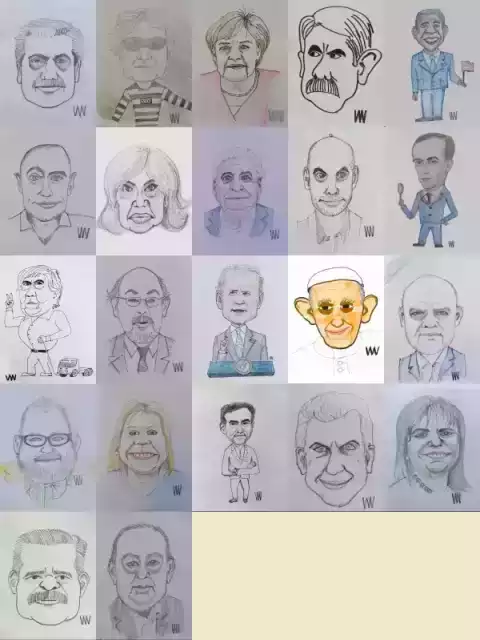
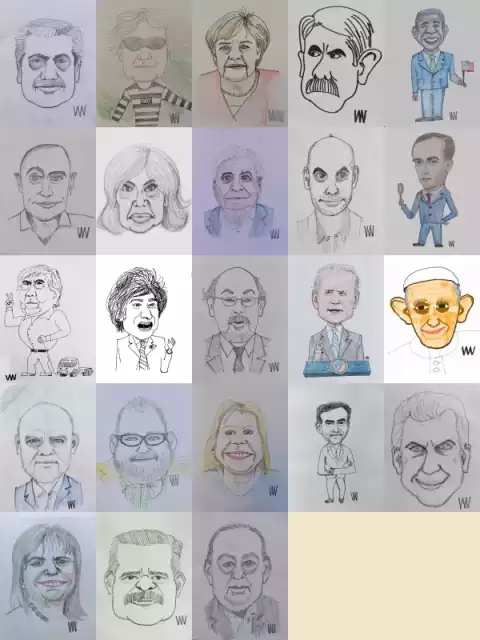
Version 20210205

diff --git a/galeria-conocidos.html b/galeria-conocidos.html
@@ -2,118 +2,75 @@
 <html lang="es">
 
 <head>
-	<!-- Global site tag (gtag.js) - Google Analytics -->
-	<script async src="https://www.googletagmanager.com/gtag/js?id=G-PP1LNRZ7TV"></script>
-	<script>
-		window.dataLayer = window.dataLayer || [];
-		function gtag(){dataLayer.push(arguments);}
-		gtag('js', new Date());
-		gtag('config', 'G-PP1LNRZ7TV');
-	</script>
 
 	<meta charset="UTF-8">
-	<meta	name="viewport"	content="width=device-width,height=device-height,initial-scale=1">
+	<meta name="viewport" content="width=device-width,height=device-height,initial-scale=1">
 	<meta name="description" content="Galería de personajes. Alejandro Yacono, Alejandro Hernandez, Guillermo Dianda">
-	<meta name="keywords" content="Galería de personajes, caricaturas,Rompecabezas">
+	<meta name="keywords" content="Galería de personajes conocidos, caricaturas,Rompecabezas">
 
-	<title>Galería de personajes</title>
+	<title>Galería de personajes conocidos</title>
 
 	<link	rel="stylesheet"	href="./css/estilo202010.css"	media="screen,projection,tv">
 	<link rel="shortcut icon" type="image/x-icon" href="favicon.ico">
 
 	<script src="menuppal.js"></script>
 
-<style>
-* {
-  box-sizing: border-box;
-}
-
-
-
-/* Style the images inside the grid */
-.column img {
-  opacity: 0.8; 
-  cursor: pointer; 
-}
-
-.column img:hover {
-  opacity: 1;
-}
-
-/* Clear floats after the columns */
-.row:after {
-  content: "";
-  display: table;
-  clear: both;
-}
-
-/* The expanding image container */
-.container {
-  position: relative;
-  display: none;
-}
-
-/* Expanding image text */
-#imgtext {
-  position: absolute;
-  bottom: 15px;
-  left: 15px;
-  color: #fff;
-  font-size: 16px;
-}
-
-/* Closable button inside the expanded image */
-.closebtn {
-  position: absolute;
-  top: 10px;
-  right: 15px;
-  color: white;
-  font-size: 35px;
-  cursor: pointer;
-}
-</style>
-
 </head>
 
 <body>
 
 	<div class="header">
-		<h1> Galería de personajes </h1>
+		<h1> Galería de personajes conocidos</h1>
 	</div>
 
 	<div id="menuppal"></div>
 
 	<div class="row clr_fondo">
-		<p>Están ordenados por nombre. Reconoces alguno?<br />
-			Si es así, <a href="consultas.html">avísame</a>.
+		<p>A quienes reconoces?<br />
+			<a href="consultas.html">Contame...</a>.
 		</p>
-		<div class="col-12" style="text-align:center;">
-			<img src="images/personajes/AleH.webp      " alt="01" style="width:024%">
-			<img src="images/personajes/AlejanY.webp   " alt="02" style="width:024%">
-			<img src="images/personajes/AnnieV.webp    " alt="04" style="width:024%">
-			<img src="images/personajes/ArielJ.webp    " alt="05" style="width:024%">
-			<img src="images/personajes/ClausH.webp    " alt="08" style="width:024%">
-			<img src="images/personajes/DiegoT.webp    " alt="09" style="width:024%">
-			<img src="images/personajes/EzequielC.webp " alt="13" style="width:024%">
-			<img src="images/personajes/GermanG.webp   " alt="14" style="width:024%">
-			<img src="images/personajes/Guille-II.webp " alt="15" style="width:024%">
-			<img src="images/personajes/GuilleD.webp   " alt="16" style="width:024%">
-			<img src="images/personajes/JoseLuisM.webp " alt="21" style="width:024%">
-			<img src="images/personajes/joseO.webp     " alt="21" style="width:024%">
-			<img src="images/personajes/JuanCV.webp	   " alt="21" style="width:024%">
-			<img src="images/personajes/Magiord.webp   " alt="21" style="width:024%">
-			<img src="images/personajes/MatiasB.webp   " alt="21" style="width:024%">		
-			<img src="images/personajes/Nane.webp      " alt="21" style="width:024%">
-			<img src="images/personajes/OscarAbe.webp  " alt="21" style="width:024%">
-			<img src="images/personajes/RubenD.webp    " alt="21" style="width:024%">
-			<img src="images/personajes/WillieV.webp   " alt="21" style="width:024%">
+		<div class="col-6 img-responsive" style="text-align:center;">
+			<map name="primary">
+				<area shape="rect" coords="000,000,096,128" onclick="muestraImagen('images/personajes/AleH.webp      ')" alt="AleH           ">
+				<area shape="rect" coords="096,000,192,128" onclick="muestraImagen('images/personajes/AlejanY.webp   ')" alt="AlejanY        ">
+				<area shape="rect" coords="192,000,288,128" onclick="muestraImagen('images/personajes/AnnieV.webp    ')" alt="AnnieV         ">
+				<area shape="rect" coords="288,000,384,128" onclick="muestraImagen('images/personajes/ArielJurjo.webp')" alt="ArielJurjo     ">
+				<area shape="rect" coords="384,000,480,128" onclick="muestraImagen('images/personajes/ClausH.webp    ')" alt="ClausH         ">
+				<area shape="rect" coords="000,128,096,256" onclick="muestraImagen('images/personajes/DiegoT.webp    ')" alt="DiegoT         ">
+				<area shape="rect" coords="096,128,192,256" onclick="muestraImagen('images/personajes/EzequielC.webp ')" alt="EzequielC      ">
+				<area shape="rect" coords="192,128,288,256" onclick="muestraImagen('images/personajes/GermanG.webp   ')" alt="GermanG        ">
+				<area shape="rect" coords="288,128,384,256" onclick="muestraImagen('images/personajes/Guille-II.webp ')" alt="Guille-II      ">
+				<area shape="rect" coords="384,128,480,256" onclick="muestraImagen('images/personajes/GuilleD.webp   ')" alt="GuilleD        ">
+				<area shape="rect" coords="000,256,096,384" onclick="muestraImagen('images/personajes/JoseLuisM.webp ')" alt="JoseLuisM      ">
+				<area shape="rect" coords="096,256,192,384" onclick="muestraImagen('images/personajes/joseO.webp     ')" alt="joseO          ">
+				<area shape="rect" coords="192,256,288,384" onclick="muestraImagen('images/personajes/JuanCV.webp	   ')" alt="JuanCV     	   ">
+				<area shape="rect" coords="288,256,384,384" onclick="muestraImagen('images/personajes/Magiord.webp   ')" alt="Magiord        ">
+				<area shape="rect" coords="384,256,480,384" onclick="muestraImagen('images/personajes/MatiasB.webp   ')" alt="MatiasB        ">
+				<area shape="rect" coords="000,384,096,512" onclick="muestraImagen('images/personajes/Nane.webp      ')" alt="Nane           ">
+				<area shape="rect" coords="096,384,192,512" onclick="muestraImagen('images/personajes/OscarAbe.webp  ')" alt="OscarAbe       ">
+				<area shape="rect" coords="192,384,288,512" onclick="muestraImagen('images/personajes/RubenD.webp    ')" alt="RubenD         ">
+				<area shape="rect" coords="288,384,384,512" onclick="muestraImagen('images/personajes/WillieV.webp   ')" alt="WillieV        ">
+				<area shape="rect" coords="384,384,480,512" onclick="muestraImagen('images/personajes/')" alt="">
+				<area shape="rect" coords="000,512,096,640" onclick="muestraImagen('images/personajes/')" alt="">
+				<area shape="rect" coords="096,512,192,640" onclick="muestraImagen('images/personajes/')" alt="">
+				<area shape="rect" coords="096,512,288,640" onclick="muestraImagen('images/personajes/')" alt="">	
+			
+			</map>
+			<img usemap="#primary" src="images/personajes/galeria-conocidos.webp" alt="personajes conocidos">
+
+		</div>
+		<div class="col-6 container" id='laImagen' style="text-align:center;">
+			<img src="images/personajes/WillieV-simpatico+txt.webp" id='personaje' alt="el dibujante" style="width:100%">
 		</div>
 	</div>
 
 	<div class="row clr_claro">
 		<div class="col-2"></div>
 		<div class="col-8" style="text-align: center;">
-			<a target="_blank" href="https://www.amazon.es/b?_encoding=UTF8&tag=willieve-21&linkCode=ur2&linkId=91667bae1344fb97bdf9a9a0b0252727&camp=3638&creative=24630&node=665280031">Sofware antivirus y seguridad</a><img src="//ir-es.amazon-adsystem.com/e/ir?t=willieve-21&l=ur2&o=30" width="1" height="1" border="0" alt="" style="border:none !important; margin:0px !important;" />
+			<!--
+			<a target="_blank" href="https://www.amazon.es/b?_encoding=UTF8&tag=willieve-21&linkCode=ur2&linkId=91667bae1344fb97bdf9a9a0b0252727&camp=3638&creative=24630&node=665280031">Sofware antivirus y seguridad</a><img src="//ir-es.amazon-adsystem.com/e/ir?t=willieve-21&l=ur2&o=30"
+				width="1" height="1" border="0" alt="" style="border:none !important; margin:0px !important;" />
+			-->
 		</div>
 		<div class="col-2"></div>
 	</div>
@@ -124,8 +81,17 @@
 	</ul>
 
 	<div class="footer">
-		<p>by Willie Verger, 2020</p>
+		<p>by Willie Verger, 2021</p>
 	</div>
 
+
+	<script>
+		function muestraImagen(src) {
+			var destino = document.getElementById("personaje");
+			destino.src = src;
+		}
+	</script>
+
 </body>
+
 </html>

diff --git a/galeria-publicos.html b/galeria-publicos.html
@@ -44,26 +44,24 @@
 					<area shape="rect" coords="384,128,480,256" onclick="muestraImagen('images/personajes/HugoAlconad.webp	')" alt="HugoAlconad  ">
 
 					<area shape="rect" coords="000,256,096,384" onclick="muestraImagen('images/personajes/HugoMoya.webp			')" alt="HugoMoya     ">
-					<area shape="rect" coords="096,256,192,384" onclick="muestraImagen('images/personajes/JoaquinMSola.webp ')" alt="JoaquinMSola ">
-
-					<area shape="rect" coords="192,256,288,384" onclick="muestraImagen('images/personajes/JoeBiden.webp     ')" alt="Joe Biden ">
-					<area shape="rect" coords="288,256,384,384" onclick="muestraImagen('images/personajes/JorgeBergog.webp	')" alt="JorgeBergoglio">
-					<area shape="rect" coords="384,256,480,384" onclick="muestraImagen('images/personajes/JorgeFD.webp			')" alt="Jorge Fernandez Diaz">
-					<area shape="rect" coords="000,384,096,512" onclick="muestraImagen('images/personajes/JorgeLana.webp		')" alt="Jorge Lanata">
-					<area shape="rect" coords="096,384,192,512" onclick="muestraImagen('images/personajes/LilitaCarrio.webp	')" alt="Lilita Carrio">
-					<area shape="rect" coords="192,384,288,512" onclick="muestraImagen('images/personajes/LuisMajul.webp	  ')" alt="LuisMajul    ">
-					<area shape="rect" coords="288,384,384,512" onclick="muestraImagen('images/personajes/MauricioM.webp		')" alt="MauricioM    ">
-					<area shape="rect" coords="384,384,480,512" onclick="muestraImagen('images/personajes/PatriciaB.webp		')" alt="PatriciaB    ">
-					<area shape="rect" coords="000,512,096,640" onclick="muestraImagen('images/personajes/rlopezm.webp			')" alt="rlopezm		  ">
-					<area shape="rect" coords="096,512,192,640" onclick="muestraImagen('images/personajes/RobertoC.webp			')" alt="RobertoC     ">
+					<area shape="rect" coords="096,256,192,384" onclick="muestraImagen('images/personajes/JavierMilei.webp  ')" alt="JavierMilei ">
+					<area shape="rect" coords="192,256,288,384" onclick="muestraImagen('images/personajes/JoaquinMSola.webp ')" alt="JoaquinMSola ">
+					<area shape="rect" coords="288,256,384,384" onclick="muestraImagen('images/personajes/JoeBiden.webp     ')" alt="Joe Biden ">
+					<area shape="rect" coords="384,256,480,384" onclick="muestraImagen('images/personajes/JorgeBergog.webp	')" alt="JorgeBergoglio">
+					<area shape="rect" coords="000,384,096,512" onclick="muestraImagen('images/personajes/JorgeFD.webp			')" alt="Jorge Fernandez Diaz">
+					<area shape="rect" coords="096,384,192,512" onclick="muestraImagen('images/personajes/JorgeLana.webp		')" alt="Jorge Lanata">
+					<area shape="rect" coords="192,384,288,512" onclick="muestraImagen('images/personajes/LilitaCarrio.webp	')" alt="Lilita Carrio">
+					<area shape="rect" coords="288,384,384,512" onclick="muestraImagen('images/personajes/LuisMajul.webp	  ')" alt="LuisMajul    ">
+					<area shape="rect" coords="384,384,480,512" onclick="muestraImagen('images/personajes/MauricioM.webp		')" alt="MauricioM    ">
+					<area shape="rect" coords="000,512,096,640" onclick="muestraImagen('images/personajes/PatriciaB.webp		')" alt="PatriciaB    ">
+					<area shape="rect" coords="096,512,192,640" onclick="muestraImagen('images/personajes/rlopezm.webp			')" alt="rlopezm		  ">
+					<area shape="rect" coords="096,512,288,640" onclick="muestraImagen('images/personajes/RobertoC.webp			')" alt="RobertoC     ">
 				</map>
 				<img usemap="#primary" src="images/personajes/galeria-publicos.webp" alt="personajes publicos">
 
 			</div>
 			<div class="col-6 container" id='laImagen' style="text-align:center;">
-
-				<img src="images/personajes/WillieV.webp" id='personaje' alt="el dibujante" style="width:100%">
-
+				<img src="images/personajes/WillieV-simpatico+txt.webp" id='personaje' alt="el dibujante" style="width:100%">
 			</div>
 		</div>
 
@@ -84,7 +82,7 @@
 		</ul>
 
 		<div class="footer">
-			<p>by Willie Verger, 2020</p>
+			<p>by Willie Verger, 2021</p>
 		</div>
 
 
